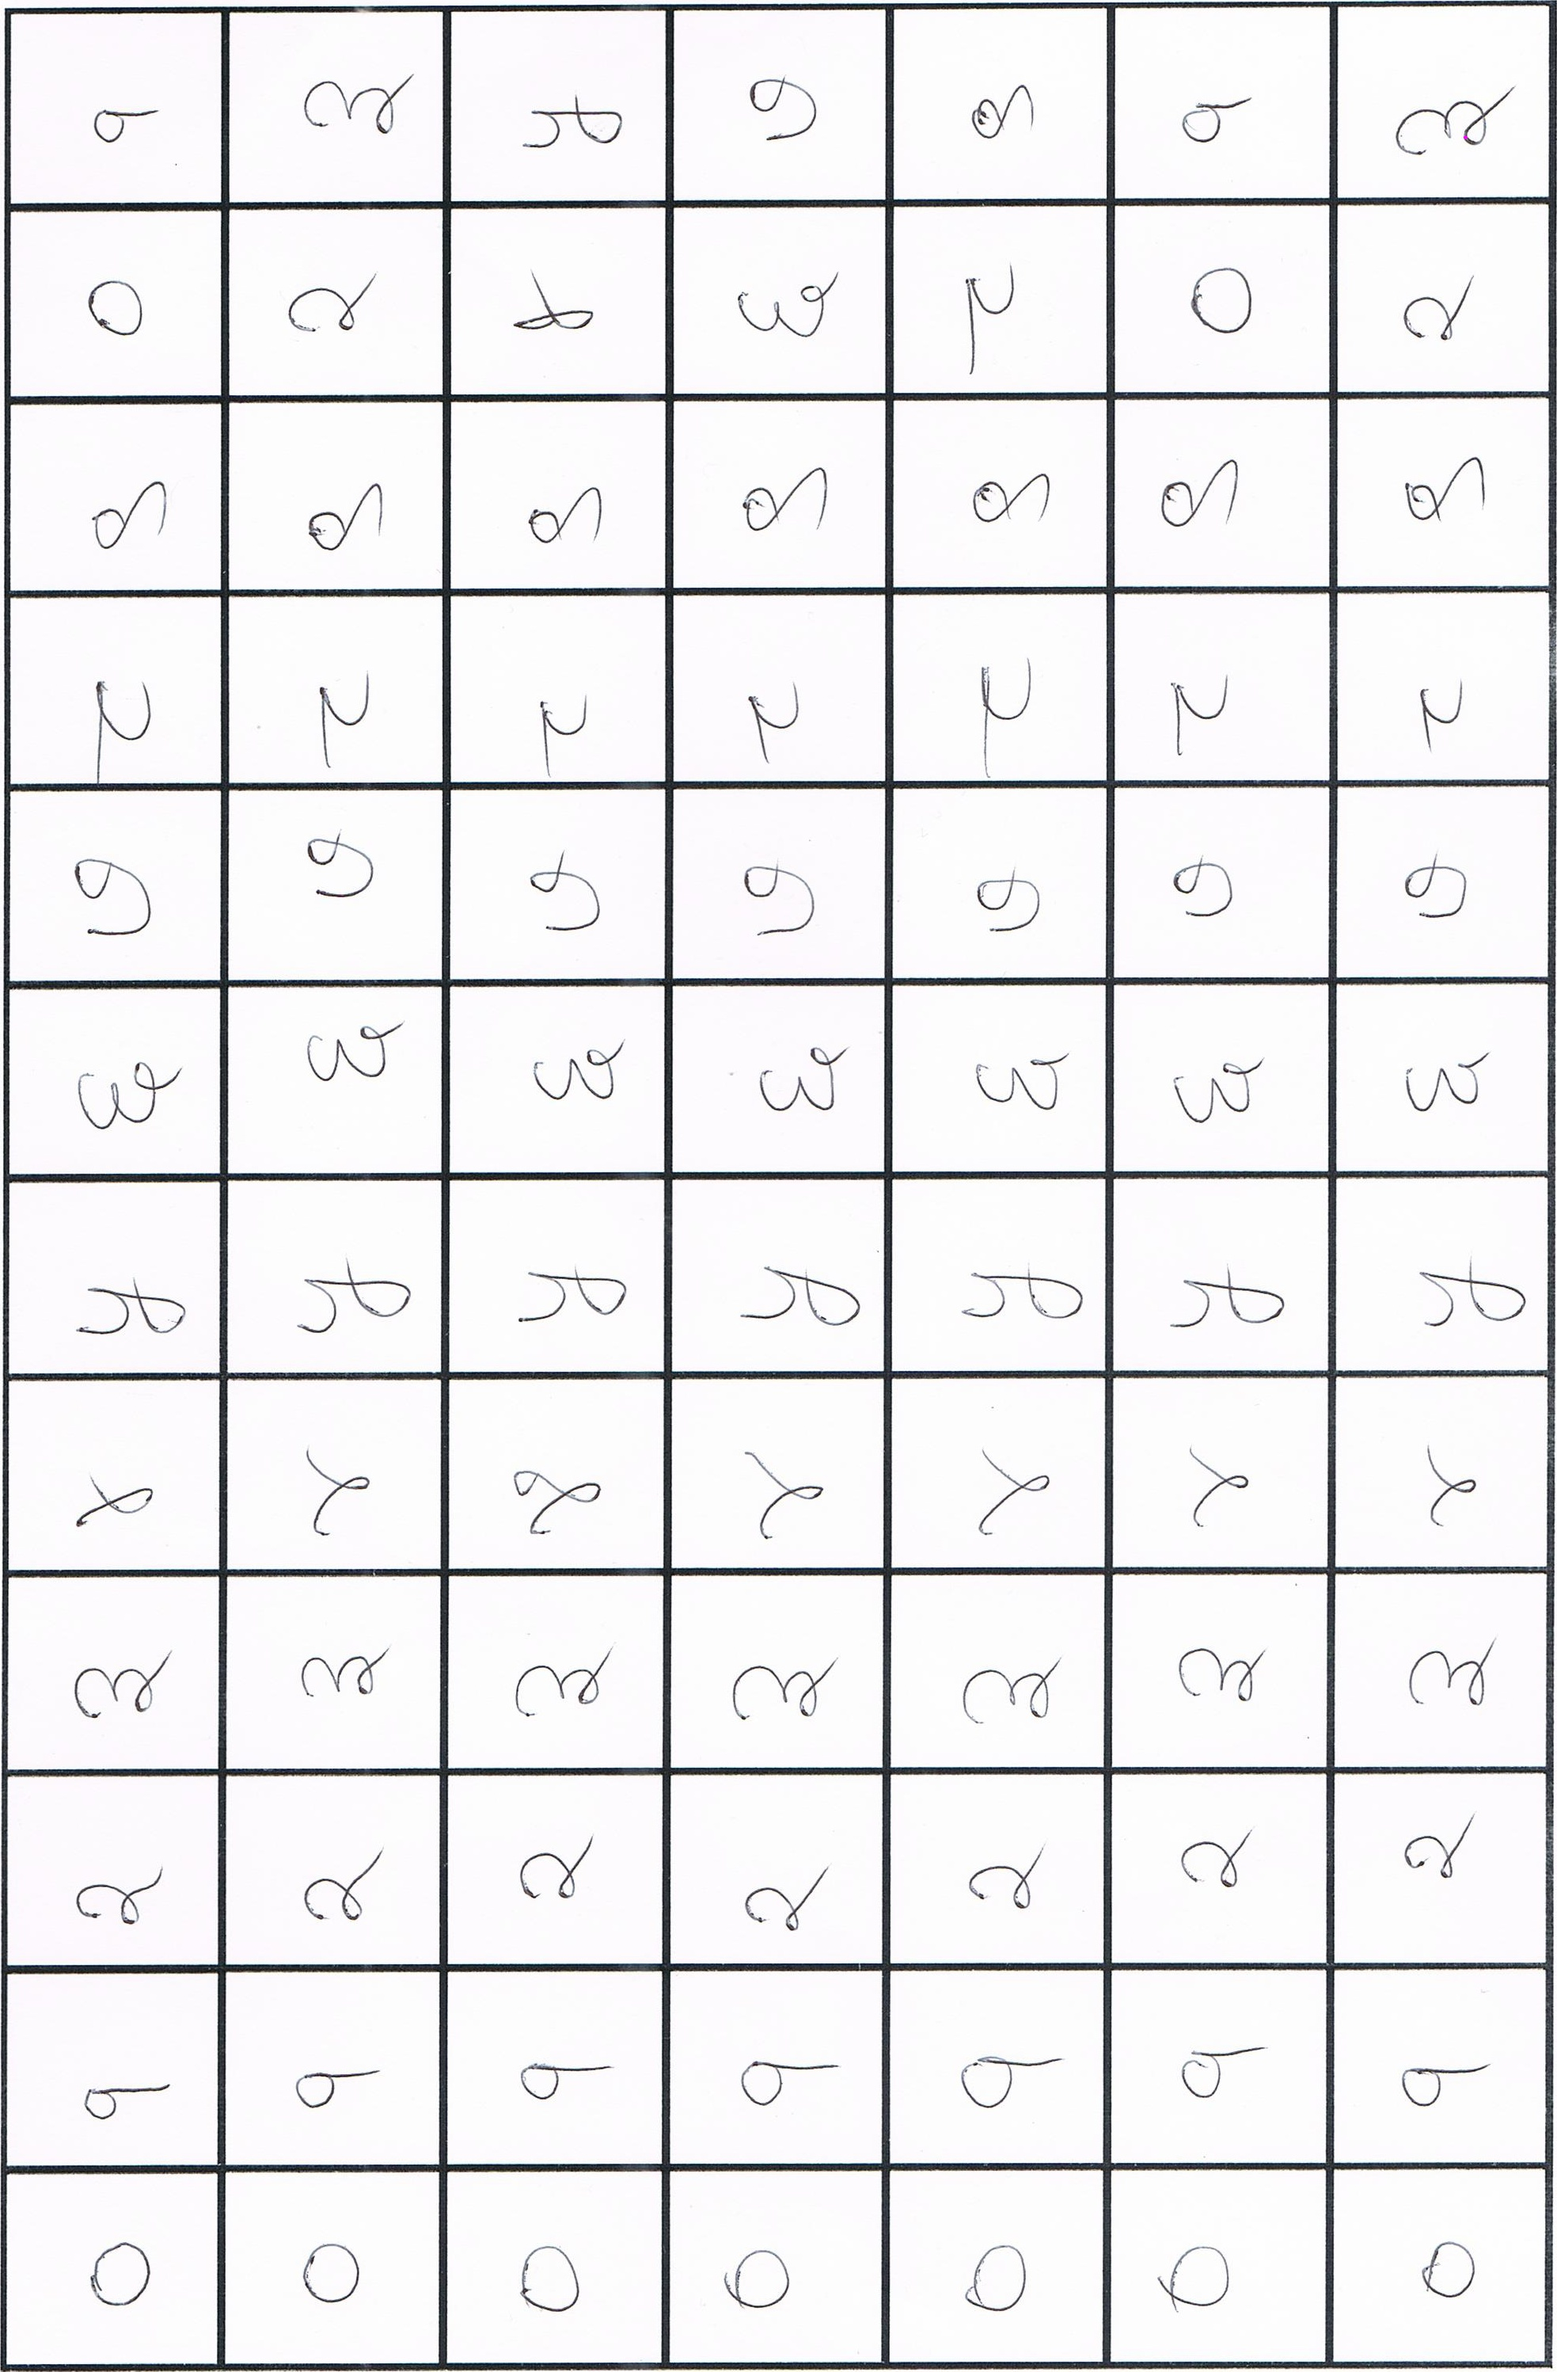
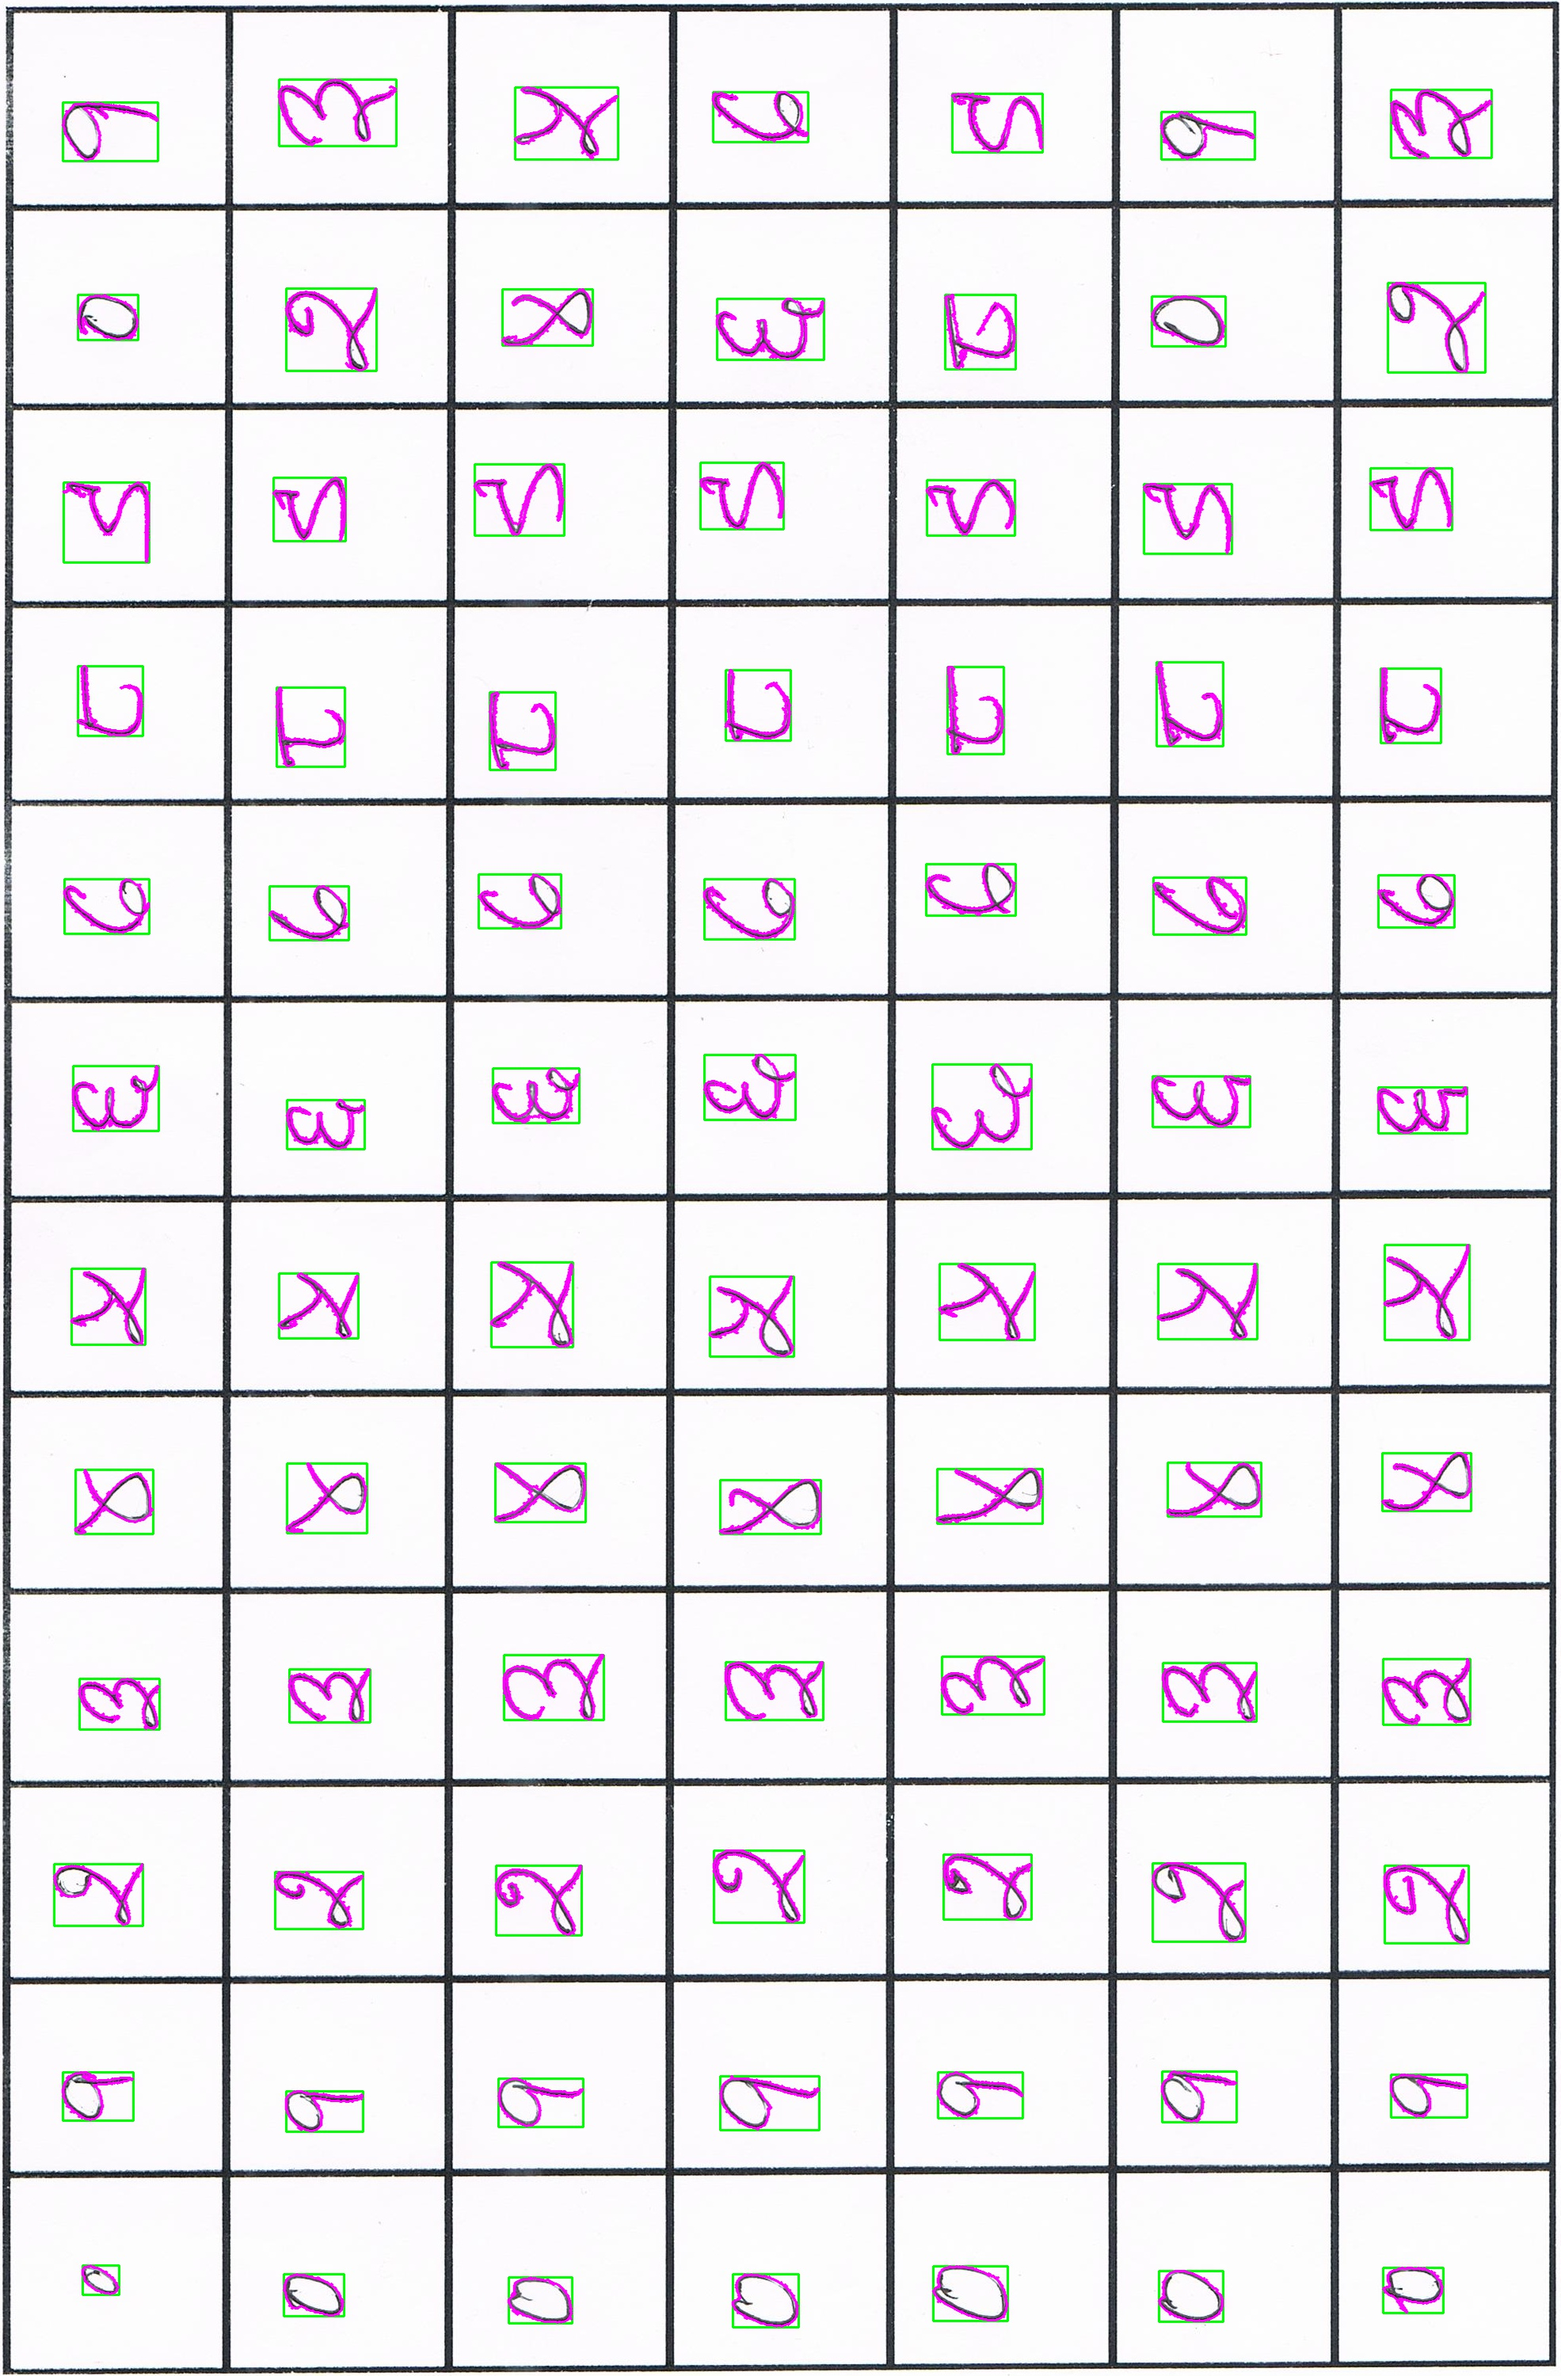
Satisfactory segmentation and cropping of digits from data

diff --git a/boundingBox.py b/boundingBox.py
@@ -1,49 +1,88 @@
 import cv2
 import numpy as np
+from cropper import crop
 
-img = cv2.imread('E:/_nepali char/test1.jpg')
-img_gray= cv2.imread('E:/_nepali char/test1.jpg',cv2.IMREAD_GRAYSCALE)
+path = "E:/_nepali char/data/safal 001.jpg"
 
-ret, thresh = cv2.threshold(img_gray,0,255,cv2.THRESH_BINARY_INV+cv2.THRESH_OTSU)
-imga ,contours,hierarchy = cv2.findContours(thresh,cv2.RETR_TREE,cv2.CHAIN_APPROX_SIMPLE)
+img = cv2.imread(path)
+img = crop(img,True)
+img_gray= cv2.imread(path,cv2.IMREAD_GRAYSCALE)
+img_gray = crop(img_gray,False)
+ret, thresh1 = cv2.threshold(img_gray,245,255,cv2.THRESH_BINARY)
+cv2.imwrite("thresholdcheck.jpg",thresh1)
+ret, thresh = cv2.threshold(thresh1,0,255,cv2.THRESH_BINARY_INV+cv2.THRESH_OTSU)
+imga ,contours,hierarchy = cv2.findContours(thresh,cv2.RETR_TREE,cv2.CHAIN_APPROX_NONE)
 
 print(len(contours))
 for i in range(0, len(contours)):
     area = cv2.contourArea(contours[i])
     if i == 0:
         maxArea = area
+        # print(maxArea)
+        # print(img_gray.size)
         bigIndex = i
     if area > maxArea:
         maxArea = area
         bigIndex = i
-
+# print(cv2.contourArea(contours[2]))
 print(bigIndex)
 # cv2.drawContours(img, contours[index], -1, (255,0,255),2, cv2.LINE_AA, maxLevel=2)
 print(hierarchy)
 # maxAreaContour = hierarchy[index]
 # print(maxAreaContour)
 i = hierarchy[0][bigIndex][2]
+print(i)
 count = 0
 while True:
+	# print("here")
 	count+=1
-	boxArea = cv2.contourArea(contours[i])
-	if boxArea < img.size * 1/100 :
+	x,y,w,h = cv2.boundingRect(contours[i])
+	
+
+	boxArea = w * h
+	print("BA:"+str(boxArea))
+	if boxArea < img_gray.size/100 : 
+		# print("herein")
 		i = hierarchy[0][i][0]
+		# print(i)
+		if(i == -1):
+			break
 		continue
+
 	childIndex = hierarchy[0][i][2]
+	# cv2.drawContours(img, contours[childIndex], -1, (255,0,255),2, cv2.LINE_AA, maxLevel=2)
+
 	while True:
-		contentArea = cv2.contourArea(contours[childIndex])
-		if contentArea >= img.size * 0.25/100:
+		x,y,w,h = cv2.boundingRect(contours[childIndex])
+
+		contentArea = w * h
+		print(contentArea)
+		
+
+		if (contentArea > 900  ):
+			cropped_image = img[y:y+h, x:x+w]
+			print(childIndex)
+			cv2.imwrite("E:/_nepali char/croppedchildren/"+str(childIndex)+"AB.jpg",cropped_image)
+
+			img = cv2.rectangle(img,(x,y),(x+w,y+h),(0,255,0),2)
+
 			cv2.drawContours(img, contours[childIndex], -1, (255,0,255),2, cv2.LINE_AA, maxLevel=2)
-			cv2.imwrite('convehull.jpg',img)
+			break
+	
 		if(hierarchy[0][childIndex][0] == -1):
 			break
-		childIndex = hierarchy[0][childIndex][0]
-	print(count)
+
+		else:
+			childIndex = hierarchy[0][childIndex][0]
+
+			# cv2.imwrite('convehull.jpg',img)
+		
+	
 	i = hierarchy[0][i][0]
 	if(hierarchy[0][i][0]== -1):
 		break
 	# pass
+# cv2.drawContours(img, contours[52], -1, (255,0,255),2, cv2.LINE_AA, maxLevel=2)
 
 
 nextBoxIndex = hierarchy[0][0][2]
@@ -56,7 +95,7 @@ print(firstChildIndex)
 
 print(contours[2])
 
-cnt = contours[index]
+cnt = contours[bigIndex]
 x,y,w,h = cv2.boundingRect(cnt)
 # img = cv2.rectangle(img,(x,y),(x+w,y+h),(0,255,0),2)
 # cropped_image = img[y:y+h, x:x+w]

diff --git a/cropper.py b/cropper.py
@@ -1,0 +1,32 @@
+import numpy 
+import cv2
+
+def crop(img,isColor):
+	if isColor:
+		img_gray = cv2.cvtColor(img,cv2.COLOR_BGR2GRAY)
+	else:
+		img_gray = img
+	ret, thresh1 = cv2.threshold(img_gray,245,255,cv2.THRESH_BINARY)
+	# cv2.imwrite("thresholdcheck2.jpg",thresh1)
+	ret, thresh = cv2.threshold(thresh1,0,255,cv2.THRESH_BINARY_INV+cv2.THRESH_OTSU)
+	imga ,contours,hierarchy = cv2.findContours(thresh,cv2.RETR_TREE,cv2.CHAIN_APPROX_NONE)
+
+	# print(len(contours))
+	for i in range(0, len(contours)):
+	    area = cv2.contourArea(contours[i])
+	    if i == 0:
+	        maxArea = area
+	        # print(maxArea)
+	        # print(img_gray.size)
+	        bigIndex = i
+	    if area > maxArea:
+	        maxArea = area
+	        bigIndex = i
+
+	cnt = contours[bigIndex]
+	x,y,w,h = cv2.boundingRect(cnt)
+	# img = cv2.rectangle(img,(x,y),(x+w,y+h),(0,255,0),2)
+	cropped_image = img[y:y+h, x:x+w]
+	return cropped_image
+
+
